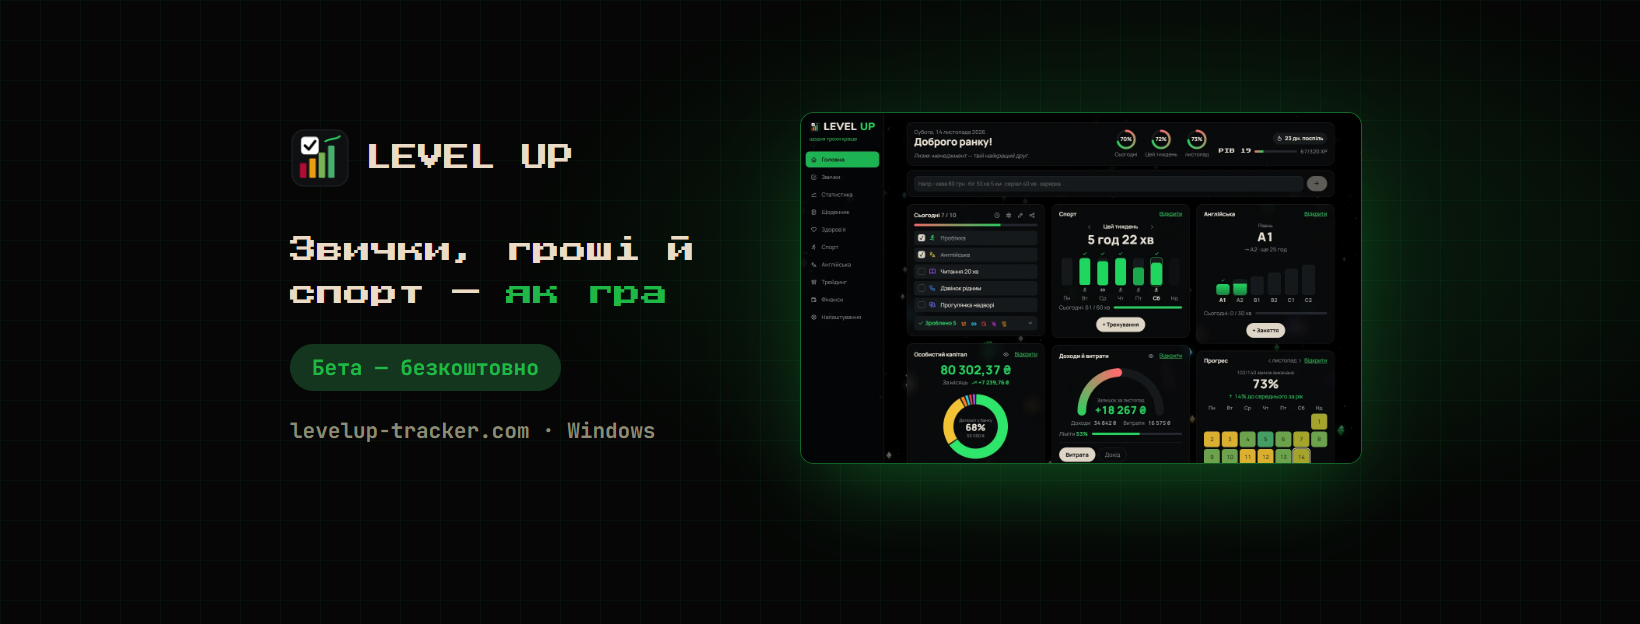
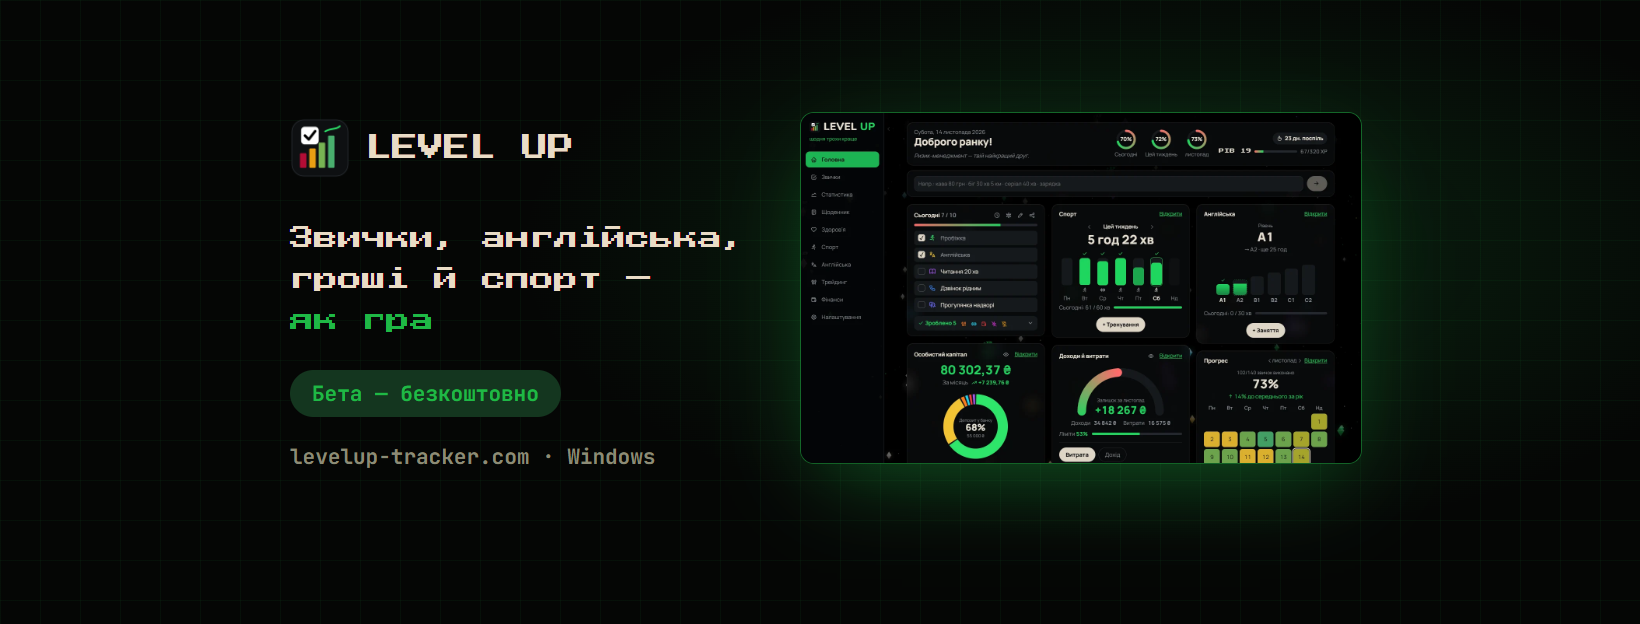
Promo: Facebook cover headline mentions English, three even lines

Changed region(s): [[0.1555, 0.3654, 0.4665, 0.7612], [0.1555, 0.1827, 0.3732, 0.3045]]

diff --git a/tools/promo/fb-cover.html b/tools/promo/fb-cover.html
@@ -11,15 +11,15 @@ html,body{margin:0;width:1640px;height:624px;overflow:hidden;color:#eadcc6;font-
  background:radial-gradient(ellipse 900px 420px at 70% 40%,rgba(31,184,70,.18),transparent 70%),
  linear-gradient(rgba(31,184,70,.06) 1px,transparent 1px) 0 0/40px 40px,
  linear-gradient(90deg,rgba(31,184,70,.06) 1px,transparent 1px) 0 0/40px 40px,#050605}
-.l{position:absolute;left:290px;top:128px;width:470px}
+.l{position:absolute;left:290px;top:118px;width:490px}
 .logo{display:flex;align-items:center;gap:16px;font-family:P;font-size:26px}.logo img{width:60px;height:60px;border-radius:12px}
-h1{font-family:P;font-weight:400;font-size:27px;line-height:1.6;margin:40px 0 30px}h1 b{color:#1fb846;font-weight:400}
+h1{font-family:P;font-weight:400;font-size:24px;line-height:1.7;margin:40px 0 30px}h1 b{color:#1fb846;font-weight:400}
 .pill{display:inline-block;padding:10px 22px;border-radius:999px;background:#14361f;color:#1fb846;font-size:21px;font-weight:700}
 .url{margin-top:26px;color:#8c8b76;font-size:21px;font-weight:700}
 .shot{position:absolute;left:800px;top:112px;width:560px;border-radius:14px;border:1px solid rgba(31,184,70,.5);box-shadow:0 30px 90px -20px rgba(31,184,70,.4)}
 </style></head><body>
 <div class="l"><div class="logo"><img src="../../img/icon.png" alt="">LEVEL UP</div>
-<h1>Звички, гроші й спорт — <b>як гра</b></h1><span class="pill">Бета — безкоштовно</span>
+<h1>Звички, англійська,<br>гроші й спорт —<br><b>як гра</b></h1><span class="pill">Бета — безкоштовно</span>
 <div class="url">levelup-tracker.com · Windows</div></div>
 <img class="shot" src="../../img/uk/home.webp" alt="">
 </body></html>
